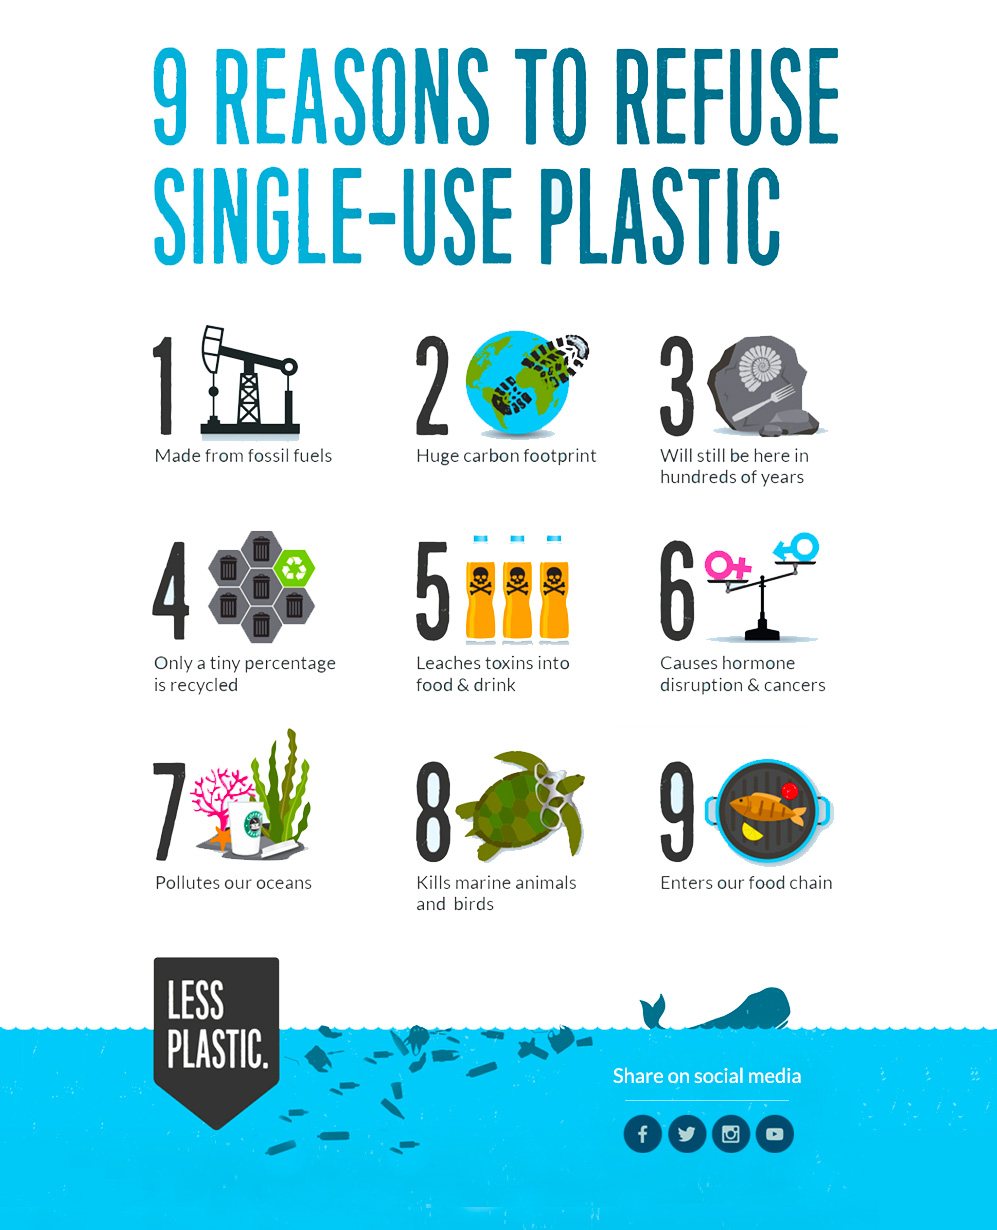
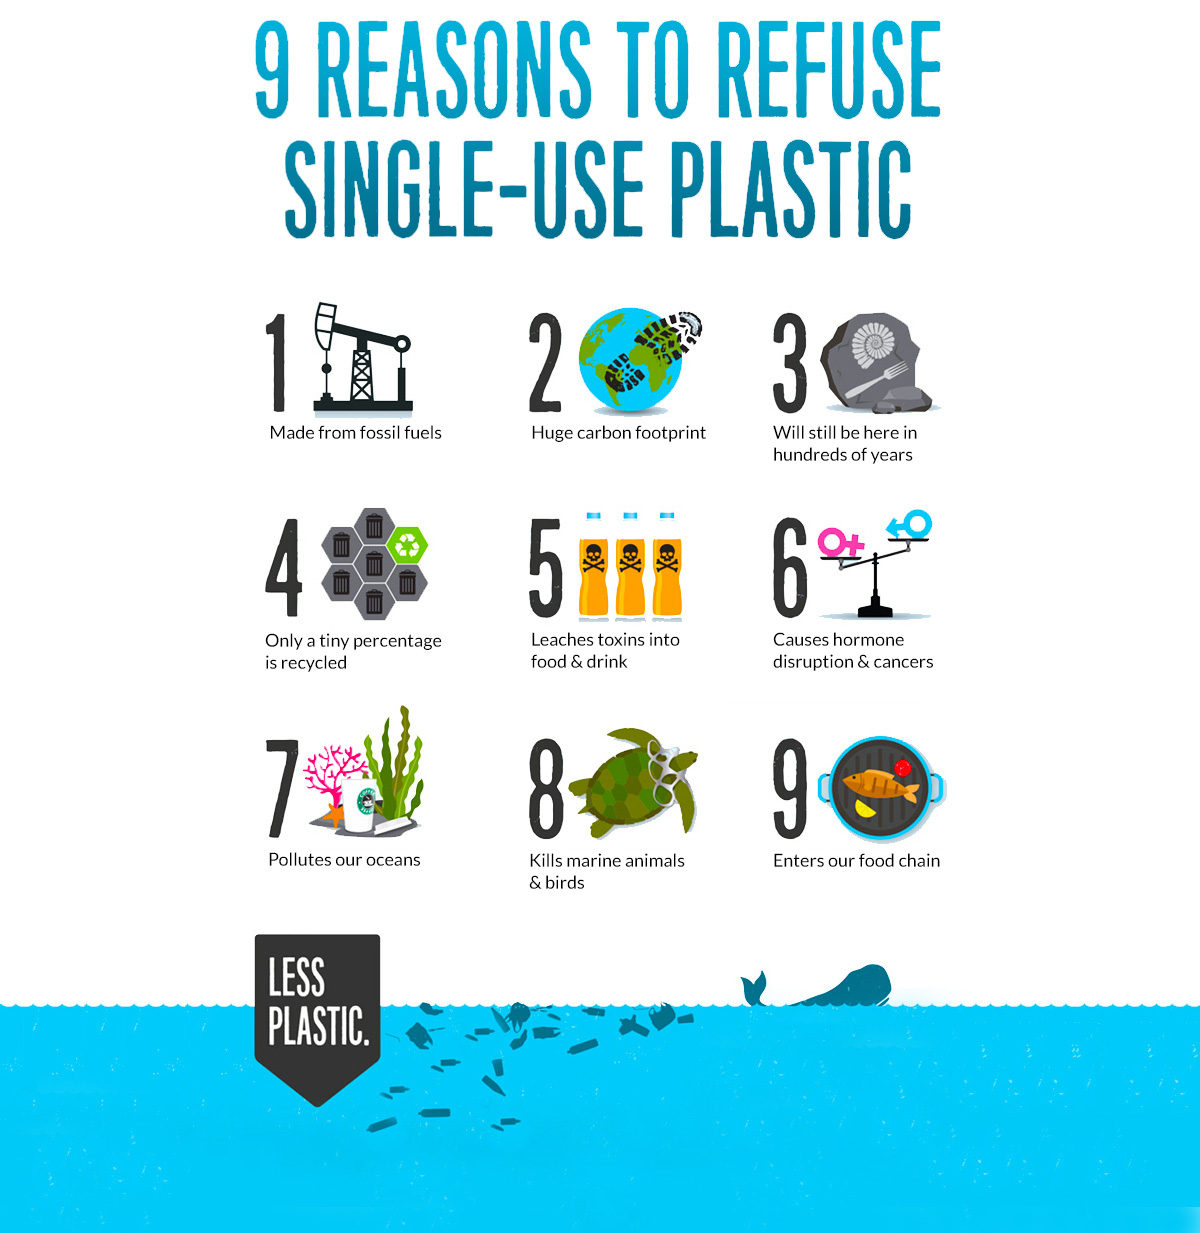
updating rwd css

diff --git a/css/styles-fr.css b/css/styles-fr.css
@@ -2,11 +2,13 @@
 * {
   box-sizing: border-box;
 }
-
-.container {
+body{
+  height:300px;
+}
+/* .container {
   max-width: 100%;
   margin: 0 auto;
-}
+} */
 
 .main {
   background-image: url("../images/header-1913x496.png");
@@ -42,14 +44,14 @@ p {
 .plastic-rings-img {
   float: right;
   margin: 25px 15px 0 0;
-  width: 32%;
+  width: 268px;
   padding: 0 25px 0 25px;
 }
 
 .globe-icon-img {
   float: left;
   margin-top: 10px;
-  width: 24%;
+  width: 190px;
   padding: 0 30px 0 25px;
 }
 
@@ -96,7 +98,7 @@ p {
 }
 .cta1{
   border-radius: .8em;
-  display: block;
+
   margin-top: 100px;
 }
 
@@ -138,7 +140,9 @@ p {
   margin: auto;
   width: 60%;
   border: 2px solid rgba(115, 173, 33, .4);
-  margin-bottom: 100px;
+  margin-bottom: 104px;
+  padding: 17px 8px 20px;
+
 }
 
 h2 {
@@ -289,6 +293,37 @@ span {
   cursor: pointer;
 }
 
+.arrow-left{
+  position: relative;
+  float: left;
+  margin: -30px 0px 0 -196px;
+}
+
+.bottom-graphic {
+  display: block;
+  height: 1233px;
+  margin: 80px auto 0;
+  width: 1200px;
+  background-position: bottom;
+  background-image: url("../images/footer-graphic.jpg");
+  background-size: contain;
+  background-repeat: no-repeat;
+}
+
+.footer-backing{
+  height: 230px;
+  position: absolute;
+  background-color: #00cafa;
+  width: 100%;
+  z-index: -10;
+  left: 0;
+  right: 0;
+  top: 4917px;
+}
+
+
+
+
 @media only screen and (max-width: 1024px) {
   .main {
     background-image: url("../images/header-350.png");
@@ -307,15 +342,15 @@ span {
   .plastic-rings-img {
     float: right;
     margin: 25px 15px 0 0;
-    width: 32%;
+    width: 268px;
     padding: 0 25px 0 25px;
   }
-  .globe-icon-img {
+  /* .globe-icon-img {
     float: left;
     margin-top: 10px;
     width: 24%;
     padding: 0 30px 0 25px;
-  }
+  } */
   .content {
     border-radius: 20px;
     border: 1px solid #008dd1;
@@ -331,6 +366,18 @@ span {
     float: right;
     margin: -30px 90px 0 0;
   }
+
+  .bottom-graphic {
+    display: block;
+    height: 775px;
+    margin: 80px auto 0;
+    width: 100%;
+    background-position: top;
+    background-image: url("../images/footer-graphic.jpg");
+    background-size: contain;
+    background-repeat: no-repeat;
+  }
+
 }
 
 @media only screen and (max-width: 768px) {
@@ -341,24 +388,38 @@ span {
     background-repeat: no-repeat;
     position: relative;
   }
-  /* .ad {
-      margin: 0 auto;
-      width: 588px;
-    } */
-  /* .arrow-right {
-      display: none;
-    } */
-  .arrow-right {
-    position: relative;
+  .plastic-rings-img {
     float: right;
-    margin: -30px 0px 0 0;
-  }
-  /* .shark-ad {
-      margin: 0 auto;
-      margin-top: 70px;
-      width: 488px;
-      height: auto;
-    } */
+    margin: 25px 15px 0 0;
+    width: 200px;
+    padding: 0 25px 0 25px;
+}
+.globe-icon-img {
+  float: left;
+  margin-top: -4px;
+  /* width: 120px; */
+  padding: 19px 30px 0 27px;
+}
+.ways-to-cut-waste {
+    margin: auto;
+    width: 72%;
+    border: 2px solid rgba(115, 173, 33, .4);
+    margin-bottom: 104px;
+    padding: 17px 8px 20px;
+}
+  .arrow-right, .arrow-left {
+      display: none;
+    }
+    .bottom-graphic {
+      display: block;
+      height: 610px;
+      margin: 60px -104px 0;
+      width: 155%;
+      background-position: top;
+      background-image: url(../images/footer-graphic.jpg);
+      /* background-size: contain; */
+      background-repeat: no-repeat;
+
 }
 
 @media screen and (max-width: 500px) {
@@ -380,15 +441,15 @@ span {
   .plastic-rings-img {
     float: right;
     margin: 15px 17px 0 0;
-    width: 50%;
+    width: 150px;
     padding: 0 16px 0 18px;
   }
-  .globe-icon-img {
+  /* .globe-icon-img {
     float: left;
     margin-top: -4px;
-    width: 46%;
-    padding: 0 30px 0 27px;
-  }
+    width: 160px;
+    padding: 0 30px 0 14px;
+  } */
   .content {
     border-radius: 20px;
     border: 1px solid #008dd1;
@@ -424,10 +485,8 @@ span {
     text-align: center;
   }
   .ways-to-cut-waste {
-    margin: auto;
+    margin: -5px auto 65px;
     width: 100%;
-    /* border: 2px solid rgba(115, 173, 33, .4); */
-    margin-bottom: 100px;
     background: rgba(115, 173, 33, .1);
     line-height: 35px;
     display: block;
@@ -439,9 +498,9 @@ span {
   }
   h2 {
     color: #73AD21;
-    font-size: 1.55em;
+    font-size: 1.45em;
     font-family: 'Lato', sans-serif;
-    line-height: 45px;
+    line-height: 35px;
     padding-left: 5px;
     margin: 0px;
     padding-bottom: 5px
@@ -454,7 +513,7 @@ span {
     text-align: left;
     list-style: none;
     counter-reset: item;
-    padding: 30px 15px 30px;
+    padding: 47px 15px 20px;
     margin-top: -10px;
   }
   li {
@@ -481,31 +540,9 @@ span {
     margin: 0;
     padding: 0;
   }
-  /* .button {
-      font-family: 'Lato', sans-serif;
-      background-color: #d90001;
-      border: 2px solid rgb(182, 184, 184);
-      color: white;
-      padding: 15px;
-      text-transform: content;
-      font-size: 1.2em;
-      cursor: pointer;
-      text-transform: uppercase;
-      text-align: center;
-      margin: auto;
-      width: 18em;
-      text-decoration: none;
-  }
-  .cta1{
-    border-radius: .8em;
-    display: block;
-    margin-top: 100px;
-  } */
-
 
   .cta1{
     border-radius: .8em;
-    display: block;
     margin-top: 50px;
   }
 
@@ -517,33 +554,22 @@ span {
     text-align: center;
     color:grey;
   }
-}
 
-/*
-@media only screen and (max-width: 700px) {
-  .modal-content {
-    width: 100%;
+    #myImg {
+        border-radius: 2px;
+        cursor: pointer;
+        transition: 0.3s;
+        max-width: 330px;
+        padding: 5px;
+        border: 2px solid rgb(115, 173, 33);
   }
-
-
-.arrow-left {
-  float: left;
-  margin: -15px 0px 0px -90px;
-}
-
-footer {
-  margin-top: 80px;
-}
-
-.bottom-graphic {
-  margin: 5px 0 auto;
-  width: 1000px;
-}
-} */
-
-/* @media screen and (max-width:1100px){
-  img{
-    width:120%;
-    height: auto;
-  }
+    .bottom-graphic {
+      display: block;
+      height: 610px;
+      margin: 60px -104px 0;
+      width: 155%;
+      background-position: top;
+      background-image: url(../images/footer-graphic.jpg);
+      /* background-size: contain; */
+      background-repeat: no-repeat;
 }

diff --git a/fight-mockup-r.html b/fight-mockup-r.html
@@ -41,7 +41,6 @@
     <!-- <div class="ad"> </div>-->
       <img class="arrow-right" src="images/arrow-right.png" alt="arrow right side pointing to CTA button">
 
-
     <div class="cta-div">
       <a href="https://actionnetwork.org/petitions/help-end-single-use-plastics" target="_blank">
         <!-- <img class="button cta1" src="images/cta.png" alt="sign petition call to action"> -->
@@ -79,16 +78,19 @@
         <div id="caption"></div>
       </div>
     </div>
-    <div class="ad">
+
+
+    <div class="cta-div">
       <img class="arrow-left" src="images/arrow-left.png" alt="arrow right side pointing to CTA button">
-    </div>
-    <div class="cta2">
+
       <a href="https://actionnetwork.org/petitions/help-end-single-use-plastics" target="_blank">
-        <img class="button" src="images/cta.png" alt="sign petition call to action">
+        <!-- <img class="button" src="images/cta.png" alt="sign petition call to action"> -->
+          <button class="button cta1">sign petition</button>
       </a>
     </div>
-    <footer>
-      <img class="bottom-graphic" src="images/footer-graphic.jpg" alt="9 reasons to refuse single use plastic graphic">
+    <footer class="bottom-graphic">
+      <!-- <img class="bottom-graphic" src="images/footer-graphic.jpg" alt="9 reasons to refuse single use plastic graphic"> -->
+      <div class="footer-backing"></div>
     </footer>
   </div>
   <!-- end container -->
